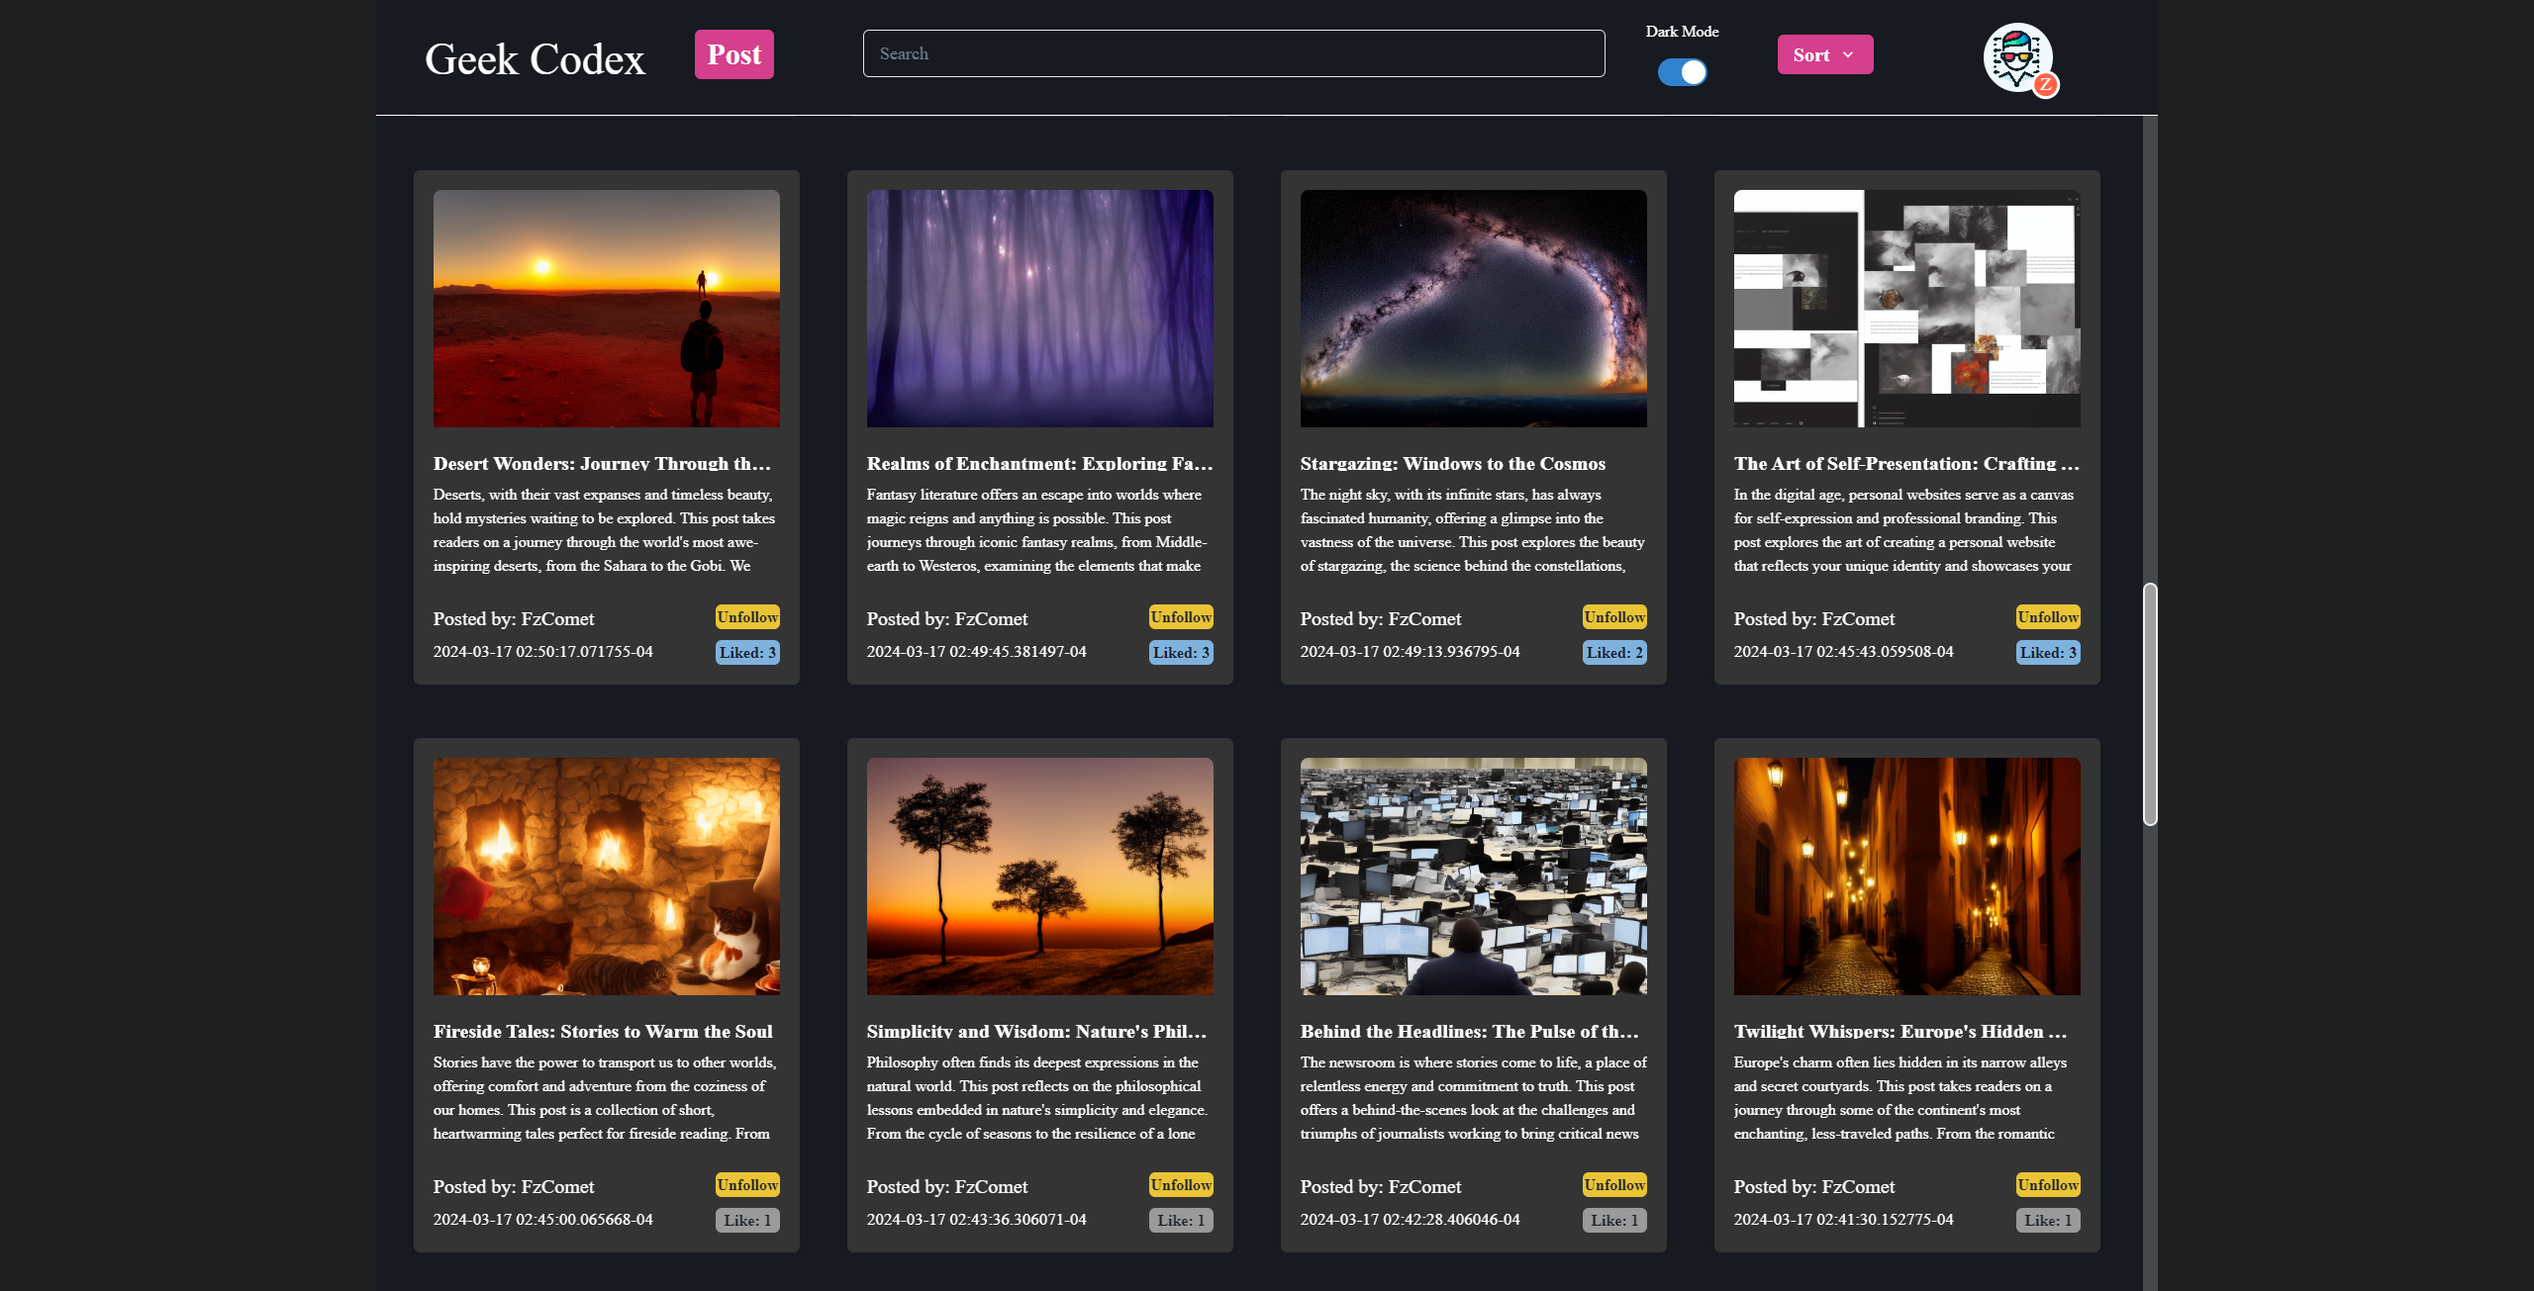
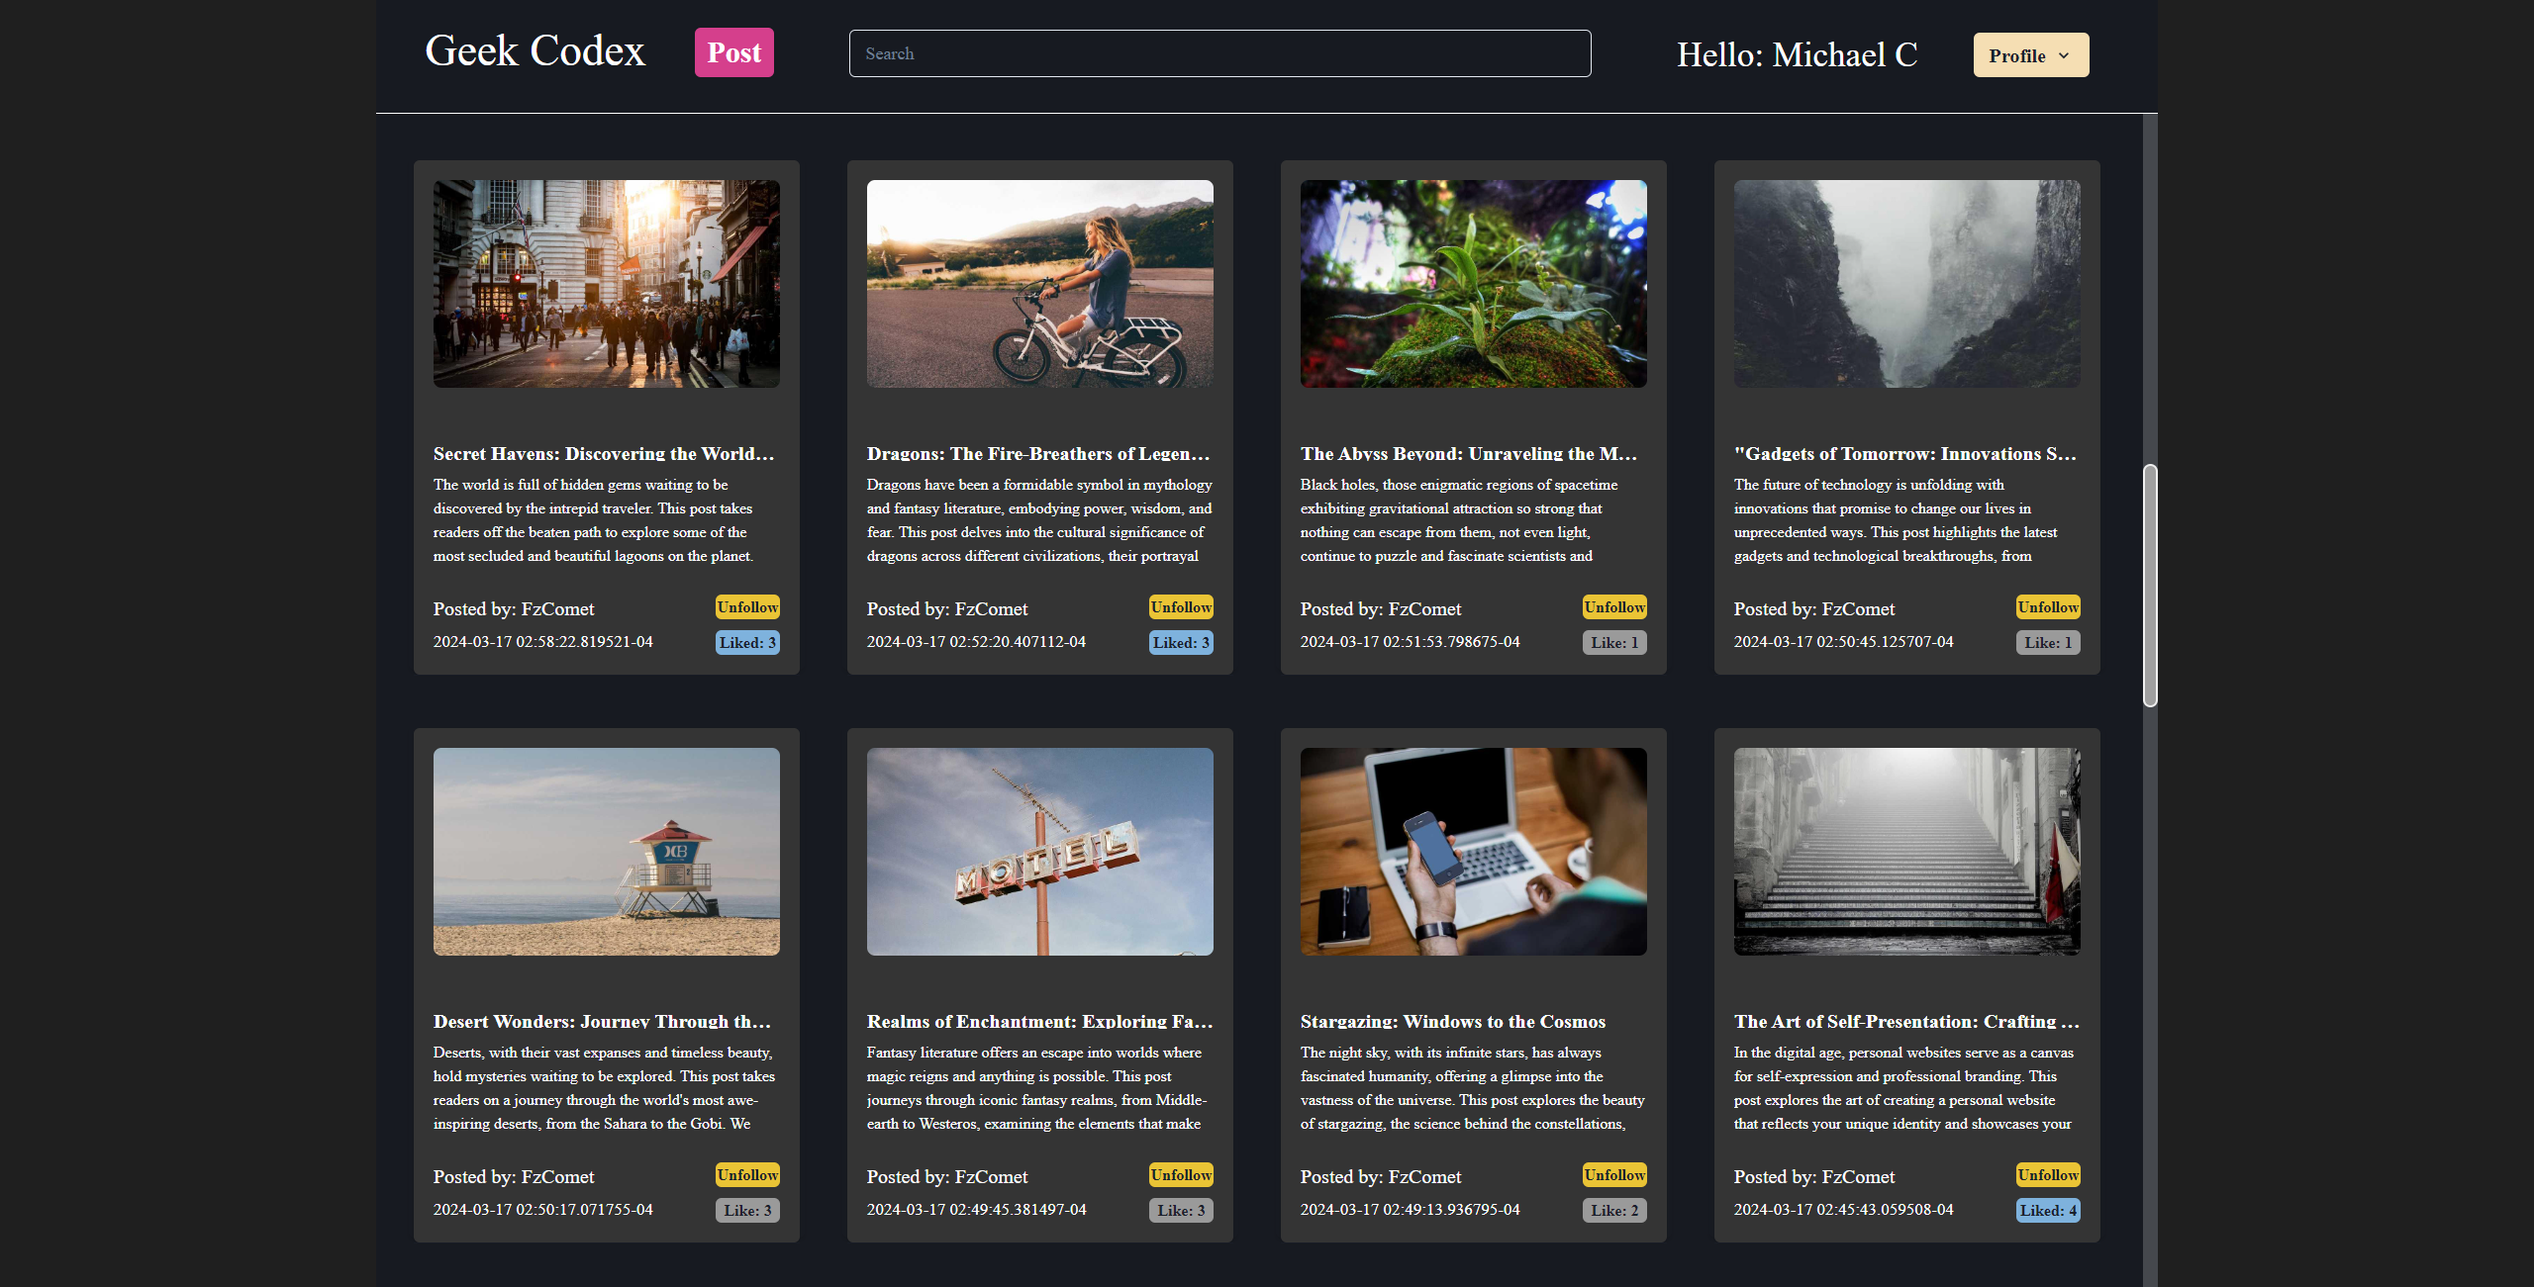
ui update

diff --git a/src/app/utils/profile.tsx b/src/app/utils/profile.tsx
@@ -1,12 +1,13 @@
-import { Button, Drawer, DrawerOverlay, DrawerContent, DrawerCloseButton, DrawerHeader, DrawerBody, Input, DrawerFooter, MenuItem, MenuList, Menu, Box } from "@chakra-ui/react"
+import { Button, Drawer, DrawerOverlay, DrawerContent, DrawerCloseButton, DrawerHeader, DrawerBody, Input, DrawerFooter, MenuItem, MenuList, Menu, Box, MenuButton, MenuDivider, Switch, MenuItemOption, MenuOptionGroup } from "@chakra-ui/react"
 import axios from "axios";
-import React, { useContext } from "react"
+import React, { useContext, useEffect } from "react"
 import { AppContext } from "../../../context/appContext";
 import { useRouter } from "next/navigation";
+import { ChevronDownIcon } from "@chakra-ui/icons";
 
 export function Profile({onClose, isOpen, onOpen} : any) {
 
-    const {darkTheme, user, setUser, setIsLoggedIn } = useContext(AppContext) || {};
+    const {darkTheme, setTheme, user, setUser, setIsLoggedIn, setCurrSort, setFlip, currSort, currTitle, setCurrTitle } = useContext(AppContext) || {};
     const router = useRouter();
 
     const logoutRedirect = async () => {
@@ -42,60 +43,113 @@ export function Profile({onClose, isOpen, onOpen} : any) {
         router.push("/dashboard")
     }
 
-    const txtColor = darkTheme? "white" : "black";
+    const handleSortLike = () => {
+        setCurrSort("like")
+        setFlip(true)
+    }
+
+    const handleSortTime = () => {
+        setCurrSort("time")
+        setFlip(true)
+    }
+
+    useEffect(() => {
+        console.log(currSort)
+        console.log(currTitle)
+    })
 
     return (
         <>
-        <Drawer
-            isOpen={isOpen}
-            placement='right'
-            onClose={onClose}
-            size="xs"
-            blockScrollOnMount={false}
-        >
-            <DrawerContent textColor={txtColor} bg={darkTheme ? "brand.bodyDark" : "brand.bodyLight"}>
-            <DrawerCloseButton />
-            <DrawerHeader>
-                <Box textAlign="center" fontSize="20px" marginTop="50px">
-                    Hello
-                </Box>
-                <Box textAlign="center" fontSize="35px">
-                    {user}
-                </Box>
+        <Box display="block" fontSize="20px" textColor="black"> 
+            <Menu closeOnSelect={false}>
+                <MenuButton 
+                    as={Button} rightIcon={<ChevronDownIcon />}
+                    fontSize="20px"
+                    h="45px"
+                    bgColor="wheat"
+                >
+                    Profile
+                </MenuButton>
+                <MenuList bgColor="wheat">
 
-            </DrawerHeader>
-                <DrawerBody>
-                    <Box borderColor="white" borderWidth="1px" borderRadius="20px" w="100%" p="20px" >
-                        <Button 
+                    <MenuOptionGroup title="View" value={currTitle} type="radio" fontSize="20px">
+                        <MenuItemOption
+                            _hover={{bgColor: "rgba(0,0,0,0.1)"}}
+                            value="Geek Codex"
                             onClick={handleClickFeed}
-                            width="100%" h="40px" marginTop="20px" fontSize="20px" bg="rgba(255,255,255,0.85)">
-                            View Feed
-                        </Button>
-                        <Button 
+                            fontSize="20px"
+                            bgColor="wheat"
+                        > 
+                            Feed
+                        </MenuItemOption>
+                        <MenuItemOption
+                            _hover={{bgColor: "rgba(0,0,0,0.1)"}}
+                            value="Your Posts"
                             onClick={handleClickSelf}
-                            width="100%" h="40px" marginTop="40px" fontSize="20px" bg="rgba(255,255,255,0.85)">
-                            Your Posts
-                        </Button>
-                        <Button
+                            fontSize="20px"
+                            bgColor="wheat"
+                        >
+                            View your posts
+                        </MenuItemOption>
+                        <MenuItemOption
+                            _hover={{bgColor: "rgba(0,0,0,0.1)"}}
+                            value="Liked Posts"
                             onClick={handleClickLike}
-                            width="100%" h="40px" marginTop="40px" fontSize="20px" bg="rgba(255,255,255,0.85)">
-                            Liked Posts
-                        </Button>
-                        <Button
+                            fontSize="20px"
+                            bgColor="wheat"
+                        >
+                            View liked posts
+                        </MenuItemOption>
+                        <MenuItemOption
+                            _hover={{bgColor: "rgba(0,0,0,0.1)"}}
+                            value="Dashboard"
                             onClick={handleClickDashboard}
-                            width="100%" h="40px" marginTop="40px" fontSize="20px" bg="rgba(255,255,255,0.85)">
+                            fontSize="20px"
+                            bgColor="wheat"
+                        >
                             Dashboard
-                        </Button>
-                        <Button 
-                            onClick={logoutRedirect}
-                            width="100%" h="40px" marginTop="40px" marginBottom="20px" fontSize="20px" bg="rgba(255,255,255,0.85)">
-                            Log out
-                        </Button>
-                    </Box>
+                        </MenuItemOption>
+                    </MenuOptionGroup>
 
-                </DrawerBody>
-            </DrawerContent>
-        </Drawer>
+                    <MenuDivider />
+                    
+                    <MenuOptionGroup title="Theme" fontSize="20px" type="checkbox" value={darkTheme? "dark" : ""}>
+                        <MenuItemOption 
+                            _hover={{bgColor: "rgba(0,0,0,0.1)"}}
+                            bgColor="wheat"
+                            value="dark" fontSize="20px" onClick={()=>{setTheme(!darkTheme)}}>
+                            Dark Mode
+                        </MenuItemOption>
+                    </MenuOptionGroup>
+
+                    <MenuDivider/>
+
+                    <MenuOptionGroup title="Sort by" fontSize="20px" defaultValue="time" type="radio">
+                        <MenuItemOption 
+                            _hover={{bgColor: "rgba(0,0,0,0.1)"}}
+                            bgColor="wheat"
+                            value="time" fontSize="20px" onClick={handleSortTime}>
+                            Sort by created date
+                        </MenuItemOption>
+                        <MenuItemOption 
+                            _hover={{bgColor: "rgba(0,0,0,0.1)"}}
+                            bgColor="wheat"
+                            value="like" fontSize="20px" onClick={handleSortLike}>
+                            Sort by number of likes
+                        </MenuItemOption>
+                    </MenuOptionGroup>
+
+                    <MenuDivider />
+
+                    <MenuItem 
+                        _hover={{bgColor: "rgba(0,0,0,0.1)"}}
+                        bgColor="wheat"
+                        onClick={logoutRedirect}>Log Out</MenuItem>
+
+                </MenuList>
+
+            </Menu>
+        </Box>
         </>
     )
 }

diff --git a/src/app/utils/navigation.tsx b/src/app/utils/navigation.tsx
@@ -33,16 +33,6 @@ export default function Navigation({ onOpen }: any) {
         router.push("/auth/login");
     }
 
-    const handleSortLike = () => {
-        setCurrSort("like")
-        setFlip(true)
-    }
-
-    const handleSortTime = () => {
-        setCurrSort("")
-        setFlip(true)
-    }
-
     const handleKeyPress = (event : React.KeyboardEvent<HTMLInputElement>) => {
         if (event.key === 'Enter') {
             handleSearch()
@@ -68,6 +58,7 @@ export default function Navigation({ onOpen }: any) {
             <Flex alignContent="center">
 
                 <Box 
+                    paddingTop="20px"
                     fontSize={fs}
                     textColor="white" 
                     position="relative" 
@@ -81,36 +72,12 @@ export default function Navigation({ onOpen }: any) {
                     </Text>
                 </Box>
 
-                <Box marginTop="30px" textColor="white" position="relative" left="4%">
+                <Box paddingTop="30px" textColor="white" position="relative" left="4%">
                     <Button colorScheme="pink" h="50px" w="80px" fontSize="30px" onClick={goToPost}>Post</Button>
                 </Box>
 
-                <Box marginTop="30px" textColor="white" position="relative" left="9%" width="750px" minWidth="300px">
+                <Box paddingTop="32px" textColor="white" position="relative" left="8.2%" width="750px" minWidth="300px">
                     <Input placeholder='Search' size="lg" value={query} onChange={handleQueryChange} onKeyUp={handleKeyPress}/>
-                </Box>
-
-
-                <Box padding="20px" position="relative" left="10%">
-                    <Box textAlign="center" textColor="white">Dark Mode</Box>
-                    <Box textAlign="center" padding="15px">
-                        <Switch size="lg" isChecked={darkTheme} onChange={() => setTheme?.(!darkTheme)}></Switch>
-                    </Box>
-                </Box>
-
-                <Box display="block" position="relative" left="12%" w="10px" paddingTop="35px" fontSize="20px" textColor="black"> 
-                    <Menu>
-                        <MenuButton colorScheme="pink" as={Button} fontSize="20px" rightIcon={<ChevronDownIcon />}>
-                            Sort
-                        </MenuButton>
-                        <MenuList display="block">
-                            <MenuItem onClick={handleSortTime}>
-                                Date of post
-                            </MenuItem>
-                            <MenuItem onClick={handleSortLike}>
-                                Number of likes
-                            </MenuItem>
-                        </MenuList>
-                    </Menu>
                 </Box>
 
                 {
@@ -119,13 +86,14 @@ export default function Navigation({ onOpen }: any) {
                         <UserNav/>
                     </>
                     :
-                    <Flex position="relative" left="19%">
-                            <Box marginTop="35px" textColor="white">
-                                <Button onClick={goToLogin}>Login</Button>
+                    <Flex position="relative" left="20%">
+
+                            <Box paddingTop="35px">
+                                <Button bgColor="wheat" h="40px" w="80px" fontSize="20px" onClick={goToLogin}>Login</Button>
                             </Box>
 
-                            <Box marginTop="35px" textColor="white" position="relative" left="10%">
-                                <Button onClick={goToRegister}>Register</Button>
+                            <Box paddingTop="35px" position="relative" left="15%">
+                                <Button bgColor="wheat" h="40px" w="95px" fontSize="20px" onClick={goToRegister}>Register</Button>
                             </Box>
                     </Flex>
                 }

diff --git a/src/app/utils/userNav.tsx b/src/app/utils/userNav.tsx
@@ -1,38 +1,30 @@
 import axios from "axios";
 import { useContext } from "react";
 import { AppContext } from "../../../context/appContext";
-import { Avatar, AvatarBadge, Box, Button, Menu, MenuButton, MenuItem, MenuList, useDisclosure} from "@chakra-ui/react";
+import { Text, Box, Flex } from "@chakra-ui/react";
 import { Profile } from "./profile";
 import { ChevronDownIcon } from "@chakra-ui/icons";
 
 export function UserNav() {
 
     const {user} = useContext(AppContext) || {};
-    const { isOpen, onOpen, onClose } = useDisclosure()
 
     return (
-        <Box position="relative" left="23%" w="150px" marginTop="23px" fontSize="35px" textColor="white"> 
-            <Avatar  
-                w="70px" 
-                h="70px" 
-                src="/img/avatar.png"
-                transition="transform 0.1s"
-                cursor="pointer"
-                _hover={{
-                    transform: 'scale(1.05)', 
-                }}
-                onClick={onOpen}
-            >
-                <AvatarBadge  bg='tomato' boxSize='1.5em'>
-                    {
-                        user?
-                        (user as any).at(0).toUpperCase() || "U"
-                        :
-                        "U"
-                    }
-                </AvatarBadge>
-            </Avatar>
-            <Profile isOpen={isOpen} onClose={onClose} onOpen={onOpen}></Profile>
+        <Box position="relative" left="12%" w="150px" paddingTop="20px" fontSize="35px" textColor="white"> 
+        
+            <Flex>
+
+                <Box paddingTop="12px" position="relative" mr="auto" fontSize="35px" minW="280px" maxW="280px">
+                    <Text textAlign="center">
+                        Hello: {user}
+                    </Text>
+                </Box>
+
+                <Box position="relative" left="25%" mr="auto" paddingTop="15px">
+                    <Profile/>
+                </Box>
+
+            </Flex>
         </Box>
     )
 }

diff --git a/src/app/auth/register/page.tsx b/src/app/auth/register/page.tsx
@@ -23,7 +23,7 @@ export default function RegisterPage() {
 
 
     const validate = () : string => {
-        if (name.length < 3 || name.length > 12) return "name must be within 3 and 12 characters";
+        if (name.length < 3 || name.length > 10) return "name must be within 3 and 10 characters";
         if (email.length < 4 || email.length > 50 || email.indexOf('@') === -1 || email.indexOf('.') === -1) return "Invalid email address";
         if (password.length < 8 || password.length > 20) return "Password must be within 8 and 20 characters"; 
         if (password !== confirm) return "Passwords do not match";

diff --git a/src/app/utils/preview.tsx b/src/app/utils/preview.tsx
@@ -81,7 +81,7 @@ export const Preview = ( {id, title, body, link, image, created_at, likes, autho
                                 <Box h="240px" maxW="350px" minW="350px" overflow="hidden">
                                         <Image
                                         margin="auto"
-                                        src = {image}
+                                        src = {`https://picsum.photos/seed/${id}/1000/600`}
                                         borderRadius='lg'
                                         />
                                 </Box>
